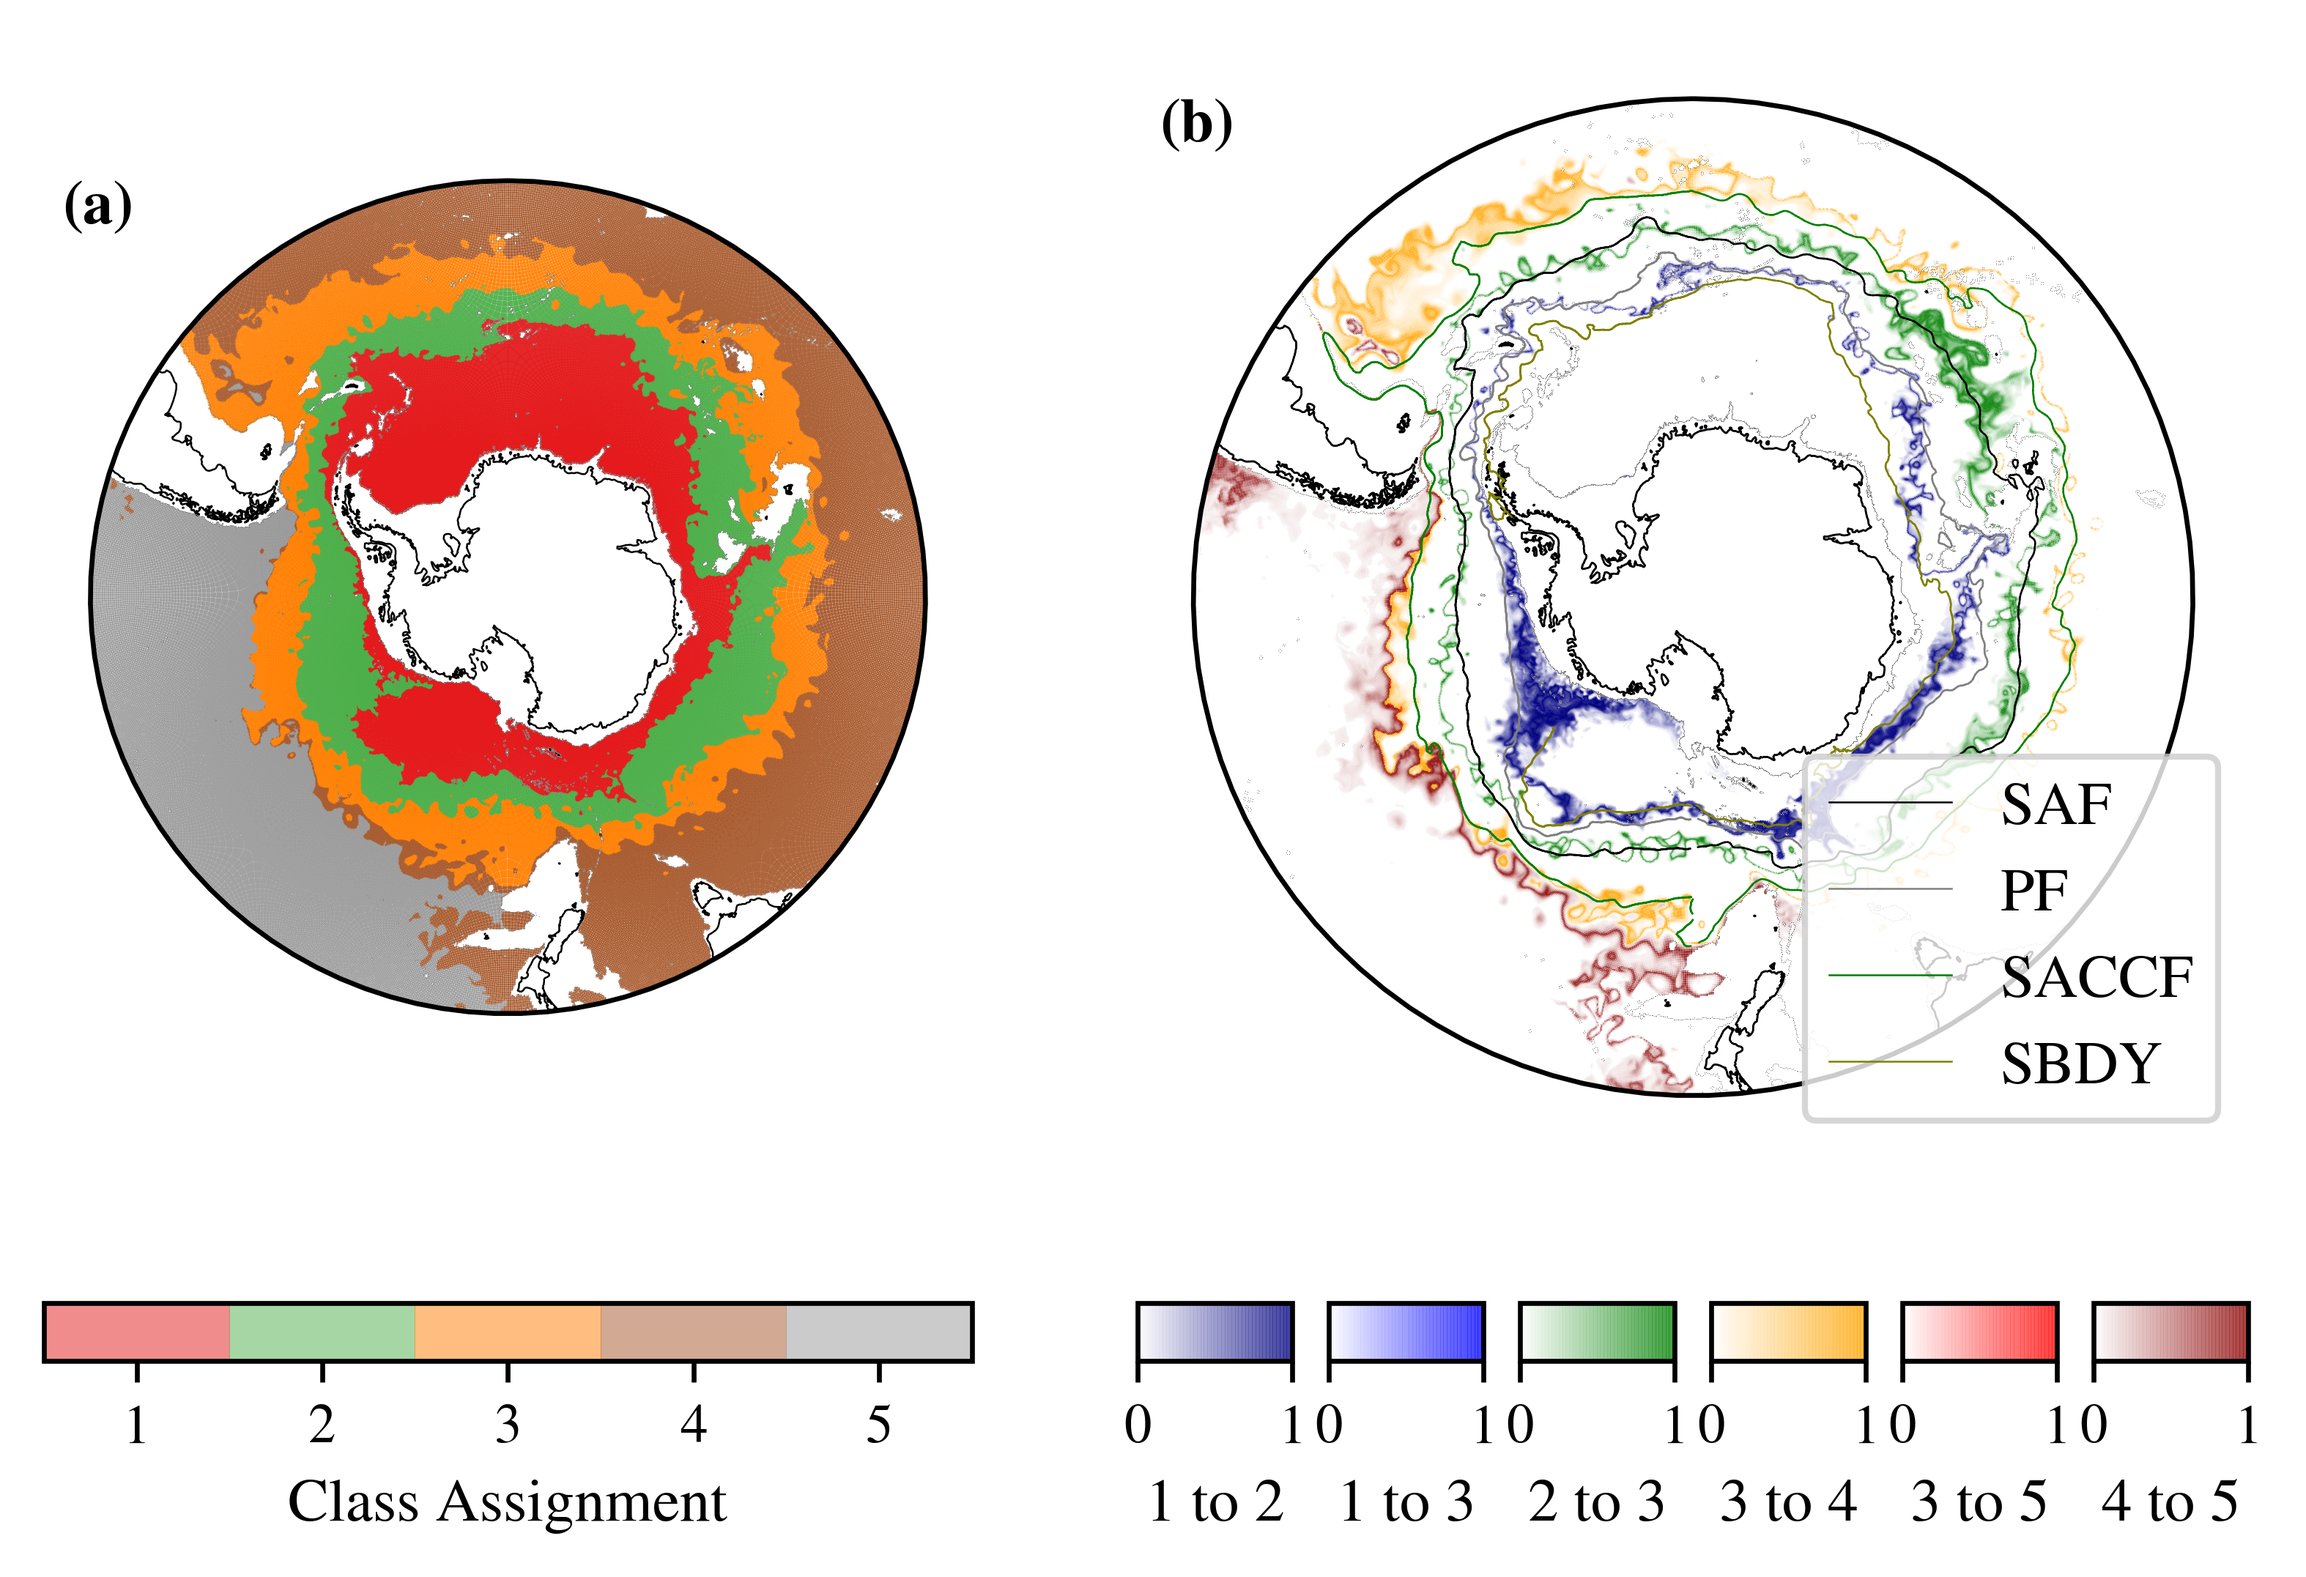
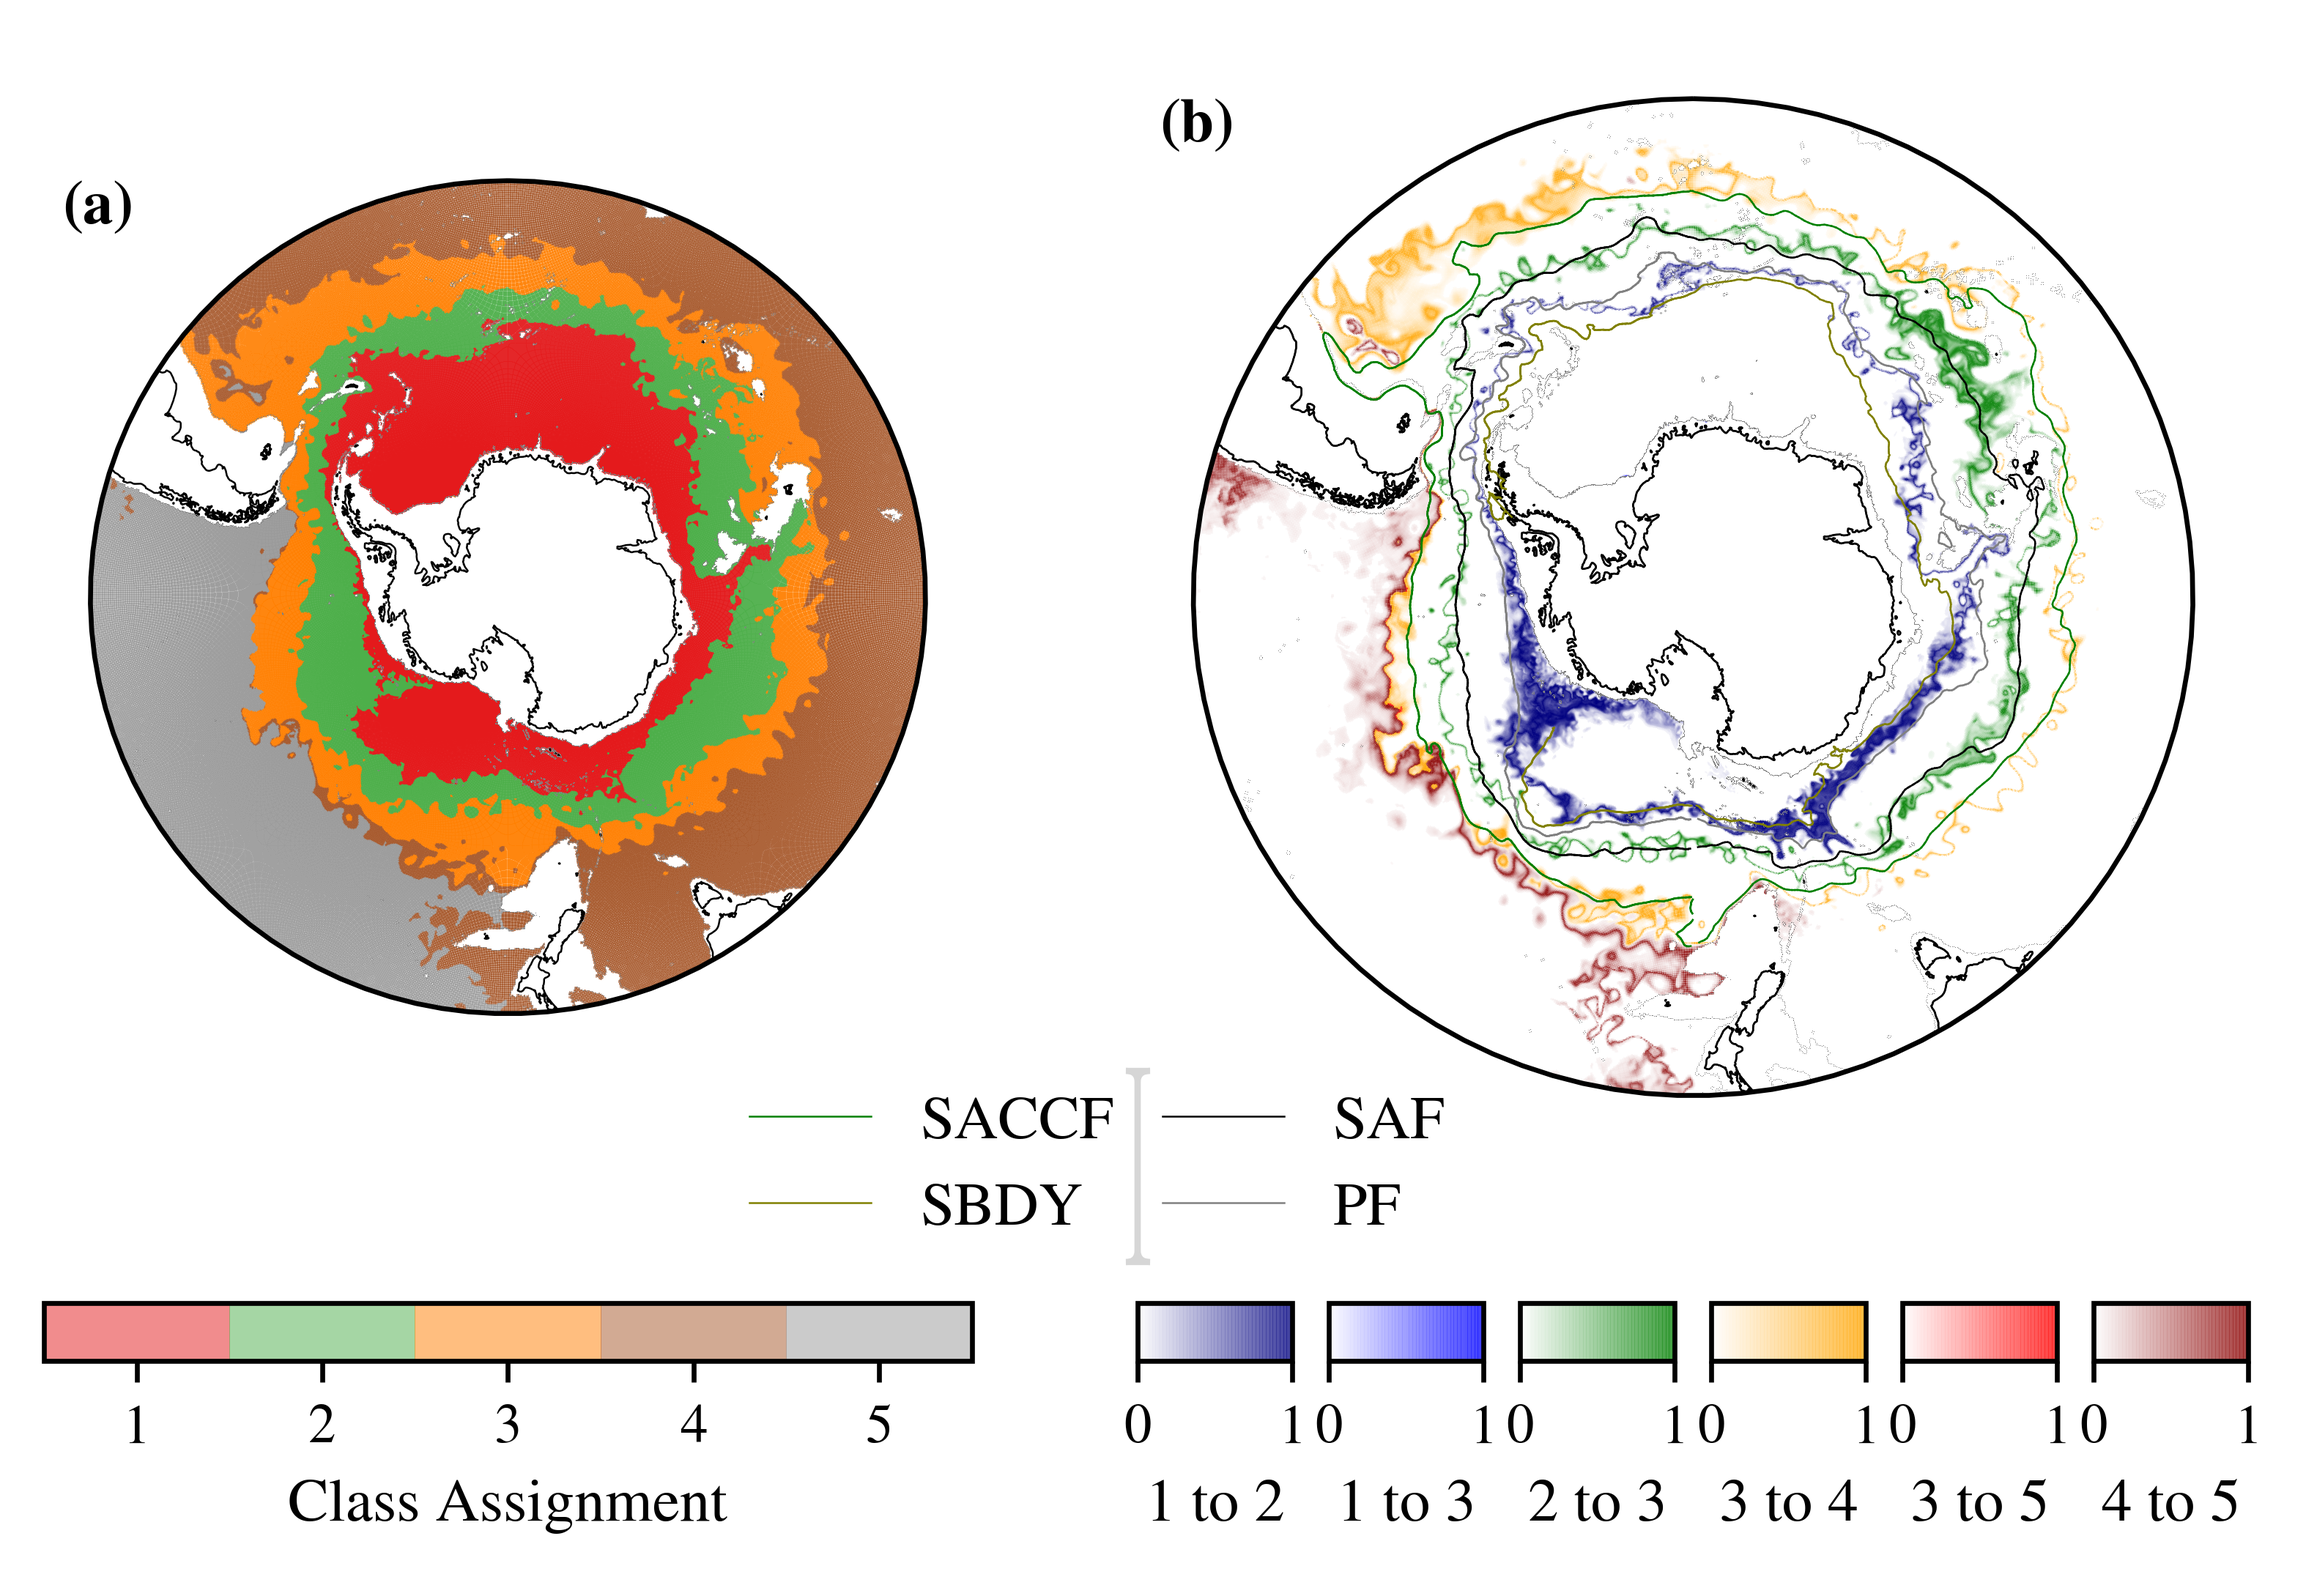
ext: changing legend

diff --git a/src/plot_utils/colors.py b/src/plot_utils/colors.py
@@ -137,7 +137,6 @@ def return_list_of_colormaps(number: int, fade_to_white: bool = True) -> list:
     return cmap_list
 
 
-@twr.timeit
 def _fading_colormap_name(from_name: str, fade_to_white: bool = True):
     """Takes a python color name and returns a fading color map.
 
@@ -149,7 +148,6 @@ def _fading_colormap_name(from_name: str, fade_to_white: bool = True):
     return _fading_colormap_rgb((red, green, blue), fade_to_white=fade_to_white)
 
 
-@twr.timeit
 def _fading_colormap_hex(from_hex, fade_to_white: bool = True):
     """Takes a hex string as input and returns a fading color map as output.
 
@@ -163,7 +161,6 @@ def _fading_colormap_hex(from_hex, fade_to_white: bool = True):
     )
 
 
-@twr.timeit
 def _fading_colormap_rgb(from_rgb: Tuple, fade_to_white: bool = True):
     """Takes an r g b tuple and returns a fading color map.
 

diff --git a/src/make_figures.py b/src/make_figures.py
@@ -102,6 +102,8 @@ def make_all_figures() -> None:
     # FIGURE 3: Plot 3d clusters.
     logger.info("Plot 3d clusters.")
 
+    lsty.mpl_params()
+
     c3d.comp_3d(
         # pylint: disable=protected-access
         pcm._classifier.weights_,
@@ -111,17 +113,18 @@ def make_all_figures() -> None:
         pcm._classifier.covariances_,
         ds,
     )
+
+    lsty.set_dim(plt.gcf(), ratio=0.8)
     s3d_plot_name = os.path.join(
         cst.FIGURE_PATH, "RUN_" + cst.RUN_NAME + "_s3d_clusters.png"
     )
     plt.savefig(s3d_plot_name)
     plt.clf()
 
-    lsty.mpl_params()
-
     # FIGURE 4: I metric viridis colormap.
     logger.info("4: I metric geographical map with viridis colormap.")
 
+    lsty.mpl_params()
     ds = xr.open_dataset(cst.DEFAULT_NC)
     xp.sep_plots(
         [

diff --git a/main.py b/main.py
@@ -1,10 +1,10 @@
 """Run key scripts."""
-# import src.make_figures as mf
+import src.make_figures as mf
 import src.move_figures as mov
 
 # from src.animate import animate_imetric
 
-# mf.make_all_figures()
+mf.make_all_figures()
 
 mov.move()
 
@@ -16,7 +16,6 @@ mov.move()
 # animate_imetric(video_path="gifs/boundaries-k4.gif", k_clusters=4)
 # animate_imetric(video_path="gifs/boundaries-k5.gif", k_clusters=5)
 # animate_imetric(video_path="gifs/boundaries-k5.mp4", k_clusters=5)
-
 # animate_imetric(video_path="gifs/boundaries-k10.gif", k_clusters=10)
 
 # pylint: disable=pointless-string-statement

diff --git a/src/plot/i_map.py b/src/plot/i_map.py
@@ -151,5 +151,12 @@ def map_imetric(da_i: xr.DataArray, da: xr.DataArray) -> None:
             ax1.set_title("")
             ko.draw_fronts_kim(ax1)
             ax1.legend(loc="lower right")
+            ax1.legend(
+                bbox_to_anchor=(0.0, -0.1, 0, 0),
+                loc="lower right",
+                ncol=2,
+                mode="expand",
+                borderaxespad=0.0,
+            )
 
     gp.label_subplots(primary_axes_list)
